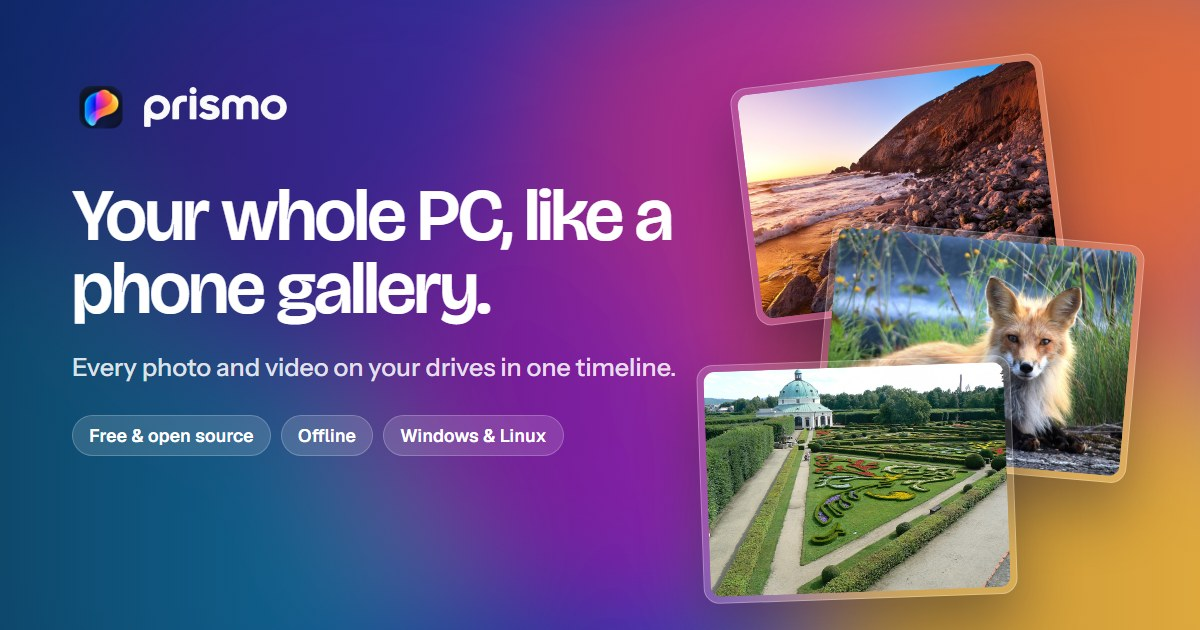
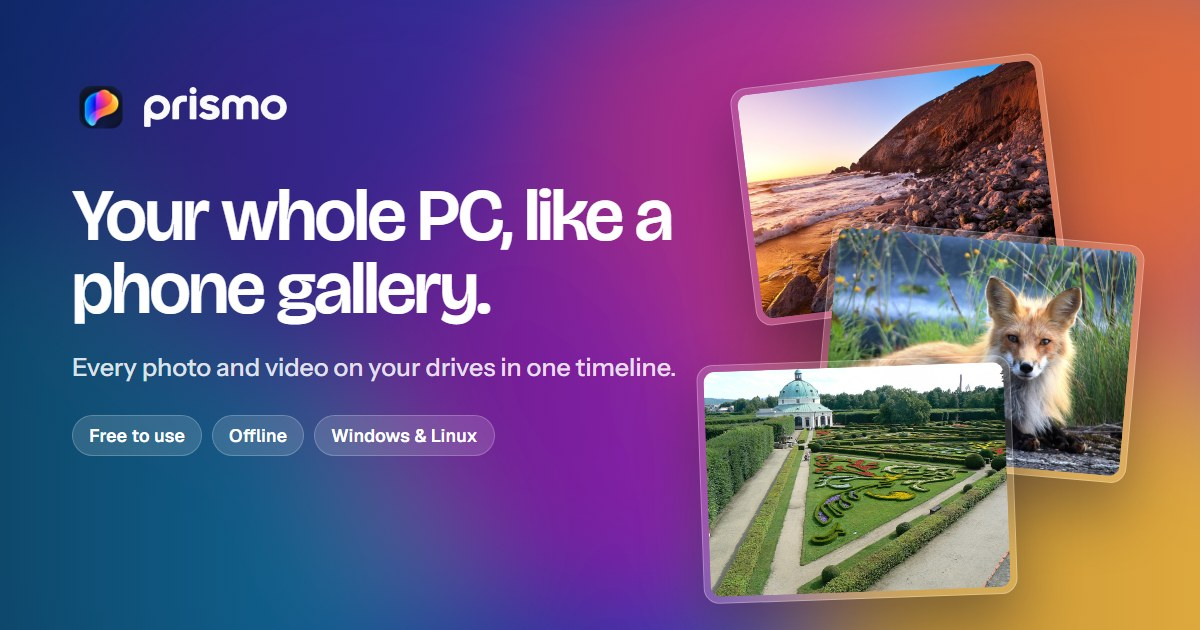
Website: downloads point to 2.0.0; an Audio card, the new file types, a question about music; free to use under the Sustainable Use License instead of open source (MIT); new share picture

Changed region(s): [[0.0925, 0.6333, 0.4933, 0.7238]]

diff --git a/frontend/src/Sections.jsx b/frontend/src/Sections.jsx
@@ -7,8 +7,8 @@ const REPO = 'https://github.com/mihirvr/prismo'
 // The installers' download links. While a link is null its button is greyed out ("soon").
 // At the release, put the Releases page's file links here.
 export const DOWNLOADS = {
-  windows: 'https://github.com/mihirvr/prismo/releases/download/v1.4.2/Prismo-1.4.2.exe',
-  linux: 'https://github.com/mihirvr/prismo/releases/download/v1.4.2/prismo_1.4.2_amd64.deb',
+  windows: 'https://github.com/mihirvr/prismo/releases/download/v2.0.0/Prismo-2.0.0.exe',
+  linux: 'https://github.com/mihirvr/prismo/releases/download/v2.0.0/prismo_2.0.0_amd64.deb',
 }
 
 function Head({ title, intro, center, id }) {
@@ -118,8 +118,8 @@ function Story() {
           <Head id="why-h" title="Picasa did this. Then it was gone." />
           <div className="body">
             <p className="rise">Years ago, Google Picasa gave Windows a gallery that felt like a phone: every photo on your PC, by date, one scroll away. Google retired it in 2016.</p>
-            <p className="muted rise" style={{ '--i': 1 }}>Since then, no well-known open-source app on Windows shows your photos that way. File Explorer makes you open folder after folder, go back, and try the next one.</p>
-            <p className="rise" style={{ '--i': 2 }}><strong>Prismo sets out to fill that gap:</strong> a phone-style gallery for your PC that is open source, offline and fast.</p>
+            <p className="muted rise" style={{ '--i': 1 }}>Since then, File Explorer makes you open folder after folder, go back, and try the next one.</p>
+            <p className="rise" style={{ '--i': 2 }}><strong>Prismo sets out to fill that gap:</strong> a phone-style gallery for your PC that is free, offline and fast.</p>
           </div>
         </div>
         <figure className="story-fig rise" style={{ '--i': 2 }}>
@@ -179,13 +179,25 @@ const CARDS = [
   {
     head: 'Video',
     name: 'Videos play right inside',
-    text: 'MP4, MOV, MKV, WebM and AVI, with subtitles, sound tracks, a preview on the seek bar, and resume.',
+    text: 'MP4, MOV, MKV, WebM, AVI, camcorder MTS, WMV and more, with subtitles, sound tracks, a preview on the seek bar, and resume.',
     body: (
       <>
         <div className="meter"><i /></div>
         <div className="row2"><span>0:14 / 0:38</span><span>Speed 1×</span></div>
         <div className="row2"><span>Sound</span><span>English (2 tracks)</span></div>
         <div className="row2"><span>Subtitles</span><span>clip.srt</span></div>
+      </>
+    ),
+  },
+  {
+    head: 'Audio',
+    name: 'Music and voice notes too',
+    text: 'MP3, FLAC, M4A, WAV and more, under their own filter so they never crowd your photos. See the album art, or watch the sound move.',
+    body: (
+      <>
+        <div className="row2"><span>Show</span><span>Album art, Waveform, Bars, Circle</span></div>
+        <div className="row2"><span>Filters</span><span>Audio, or with photos and videos</span></div>
+        <div className="row2"><span>No album art</span><span>a music note</span></div>
       </>
     ),
   },
@@ -269,9 +281,9 @@ const CARDS = [
     ),
   },
   {
-    head: 'HEIC and RAW',
+    head: 'HEIC, AVIF and RAW',
     name: 'iPhone and camera RAW photos',
-    text: 'HEIC and RAW files (CR2, NEF, ARW, DNG…) get thumbnails and open in the viewer. Nothing extra to install.',
+    text: 'HEIC, AVIF and RAW files (CR2, NEF, ARW, DNG…) get thumbnails and open in the viewer. Nothing extra to install.',
     body: (
       <>
         <div className="row2"><span>IMG_0412.HEIC</span><span>iPhone</span></div>
@@ -367,7 +379,7 @@ const PRINCIPLES = [
   { k: 'cache', name: 'Cache first, so it is fast', text: 'Thumbnails are made once and kept. Only what is on screen is decoded, so big libraries scroll smoothly.', row: ['Thumbnail cache', 'kept', true] },
   { k: 'places', name: 'Drives and NAS', text: 'Internal disks, USB drives and network shares in one library. A missing one shows as offline, not deleted.', row: ['Library folders', '3 places', true] },
   { k: 'private', name: 'Private by default', text: 'Everything runs on your PC. Nothing is uploaded and nothing is counted.', row: ['Send anything online', 'never', false] },
-  { k: 'open', name: 'Open source', text: 'MIT licence. Read the code, build it yourself, change it, report a problem.', row: ['Source code', 'MIT', true] },
+  { k: 'open', name: 'Source available', text: 'Read the code, build it yourself, change it, share it for free. Free at home and at work; not for sale.', row: ['Source code', 'public', true] },
 ]
 
 function Principles() {
@@ -554,7 +566,7 @@ const FAQ = [
   ['Is it a Picasa replacement?', [
     'For browsing, yes.',
     ['Like Picasa:', 'every photo on your PC in one place, by date, fast, on your own computer, with favorites, albums and tags you add yourself.'],
-    ['Unlike Picasa:', 'it doesn’t edit photos and has no web albums. It is free, open source and still maintained.'],
+    ['Unlike Picasa:', 'it doesn’t edit photos and has no web albums. It is free, its code is public, and it is still maintained.'],
   ]],
   ['Can it find duplicate photos?', [
     'Yes, exact copies.',
@@ -585,9 +597,15 @@ const FAQ = [
     ['Your data:', 'the library data stays in %LOCALAPPDATA%\\Prismo until you delete that folder. Your photos and videos are never touched.'],
   ]],
   ['Which files does it open?', [
-    ['Photos:', 'JPEG, PNG, WebP, GIF and HEIC.'],
+    ['Photos:', 'JPEG, PNG, WebP, GIF, HEIC and AVIF.'],
     ['RAW:', 'CR2, CR3, NEF, ARW, DNG and more, through the preview stored inside them.'],
-    ['Videos:', 'MP4, MOV, MKV, WebM and AVI.'],
+    ['Videos:', 'MP4, MOV, MKV, WebM, AVI, 3GP, MTS / M2TS, TS, WMV, FLV, MPG and OGV.'],
+    ['Audio:', 'MP3, M4A, FLAC, WAV, AIFF, OGG, Opus, WMA, AAC and more.'],
+  ]],
+  ['Does it play music?', [
+    'Yes, and voice notes and audiobooks too.',
+    ['Kept apart:', 'audio has its own filter, so a music folder never buries your photos. Pick Audio, or “Photos, videos and audio” to see everything together.'],
+    ['While it plays:', 'the album art with the title and artist, or a waveform, bars or a ring of bars that move with the sound. A song without album art shows a music note.'],
   ]],
   ['Does it run on Linux or Mac?', [
     ['Linux:', 'yes, as an early preview, so expect some rough edges. It comes as a .deb package for Ubuntu, Debian and their relatives.'],
@@ -666,7 +684,7 @@ function Download() {
       <div className="glass cta">
         <img className="mark rise" src="/brand/prismo-mark.webp" alt="The Prismo logo" width="128" height="128" />
         <h2 id="dl-h" className="title rise" style={{ '--i': 1 }}>Get Prismo for your PC.</h2>
-        <p className="intro rise" style={{ '--i': 2 }}>Free and open source, for Windows 10 / 11 and Linux (Ubuntu, Debian). Version 1.4.2. Everything it needs is inside the installer.</p>
+        <p className="intro rise" style={{ '--i': 2 }}>Free to use, for Windows 10 / 11 and Linux (Ubuntu, Debian). Version 2.0.0. Everything it needs is inside the installer.</p>
         <div className="row rise" style={{ '--i': 3 }}>
           <DownloadButton href={DOWNLOADS.windows} icon={<WindowsMark />} label="Download for Windows" />
           <DownloadButton href={DOWNLOADS.linux} icon={<LinuxMark />} label="Download for Linux" />

diff --git a/frontend/index.html b/frontend/index.html
@@ -4,21 +4,21 @@
 <meta charset="utf-8">
 <meta name="viewport" content="width=device-width, initial-scale=1">
 <title>Prismo: free phone-style photo gallery for Windows &amp; Linux</title>
-<meta name="description" content="Prismo puts every photo and video on your PC into one timeline, like your phone's gallery. Free and open source, offline, no account. For Windows and Linux.">
+<meta name="description" content="Prismo puts every photo and video on your PC into one timeline, like your phone's gallery. Free, offline, no account. For Windows and Linux.">
 <link rel="canonical" href="https://prismo.mihirr.in/">
 <!-- Link previews (WhatsApp, Discord, LinkedIn, X): the picture is public/og.jpg, 1200 × 630 (made from the page: hero text, logo, three demo photos). -->
 <meta property="og:type" content="website">
 <meta property="og:site_name" content="Prismo">
 <meta property="og:url" content="https://prismo.mihirr.in/">
 <meta property="og:title" content="Prismo: free phone-style photo gallery for Windows &amp; Linux">
-<meta property="og:description" content="Every photo and video on your PC in one timeline, like your phone's gallery. Free, open source, offline, no account.">
+<meta property="og:description" content="Every photo and video on your PC in one timeline, like your phone's gallery. Free, offline, no account.">
 <meta property="og:image" content="https://prismo.mihirr.in/og.jpg">
 <meta property="og:image:width" content="1200">
 <meta property="og:image:height" content="630">
 <meta property="og:image:alt" content="Prismo: your whole PC, like a phone gallery">
 <meta name="twitter:card" content="summary_large_image">
 <meta name="twitter:title" content="Prismo: free phone-style photo gallery for Windows &amp; Linux">
-<meta name="twitter:description" content="Every photo and video on your PC in one timeline, like your phone's gallery. Free, open source, offline, no account.">
+<meta name="twitter:description" content="Every photo and video on your PC in one timeline, like your phone's gallery. Free, offline, no account.">
 <meta name="twitter:image" content="https://prismo.mihirr.in/og.jpg">
 <!--app-details-->
 <meta name="color-scheme" content="light dark">

diff --git a/frontend/src/App.jsx b/frontend/src/App.jsx
@@ -161,7 +161,7 @@ export default function App() {
               <a className="btn" href="#download">Download for PC</a>
               <a className="btn ghost" href={REPO}><GitHub />View on GitHub</a>
             </div>
-            <p className="note rise" style={{ '--i': 3 }}>Free and open source (MIT). No account, no tracking.</p>
+            <p className="note rise" style={{ '--i': 3 }}>Free to use. No account, no tracking.</p>
           </div>
           <div className="rise" style={{ '--i': 2 }}><PhotoFan /></div>
         </section>
@@ -197,7 +197,7 @@ export default function App() {
             <a href="#faq">Questions</a>
             <a href={REPO}>GitHub</a>
           </nav>
-          <span className="right">MIT licence · 2026</span>
+          <span className="right">Sustainable Use License · 2026</span>
         </div>
       </footer>
     </>

diff --git a/frontend/scripts/og-card.html b/frontend/scripts/og-card.html
@@ -30,7 +30,7 @@
   <div class="brand"><img class="mark" src="http://localhost:4173/brand/prismo-mark.webp" alt=""><img class="word" src="http://localhost:4173/brand/prismo-word-dark.png" alt=""></div>
   <h1>Your whole PC, like a phone gallery.</h1>
   <p>Every photo and video on your drives in one timeline.</p>
-  <div class="tags"><span>Free &amp; open source</span><span>Offline</span><span>Windows &amp; Linux</span></div>
+  <div class="tags"><span>Free to use</span><span>Offline</span><span>Windows &amp; Linux</span></div>
 </div>
 <figure class="ph a"><img src="http://localhost:4173/photos/rockaway-beach-sunset.jpg" alt=""></figure>
 <figure class="ph b"><img src="http://localhost:4173/photos/red-fox-wild-animal-background.webp" alt=""></figure>
